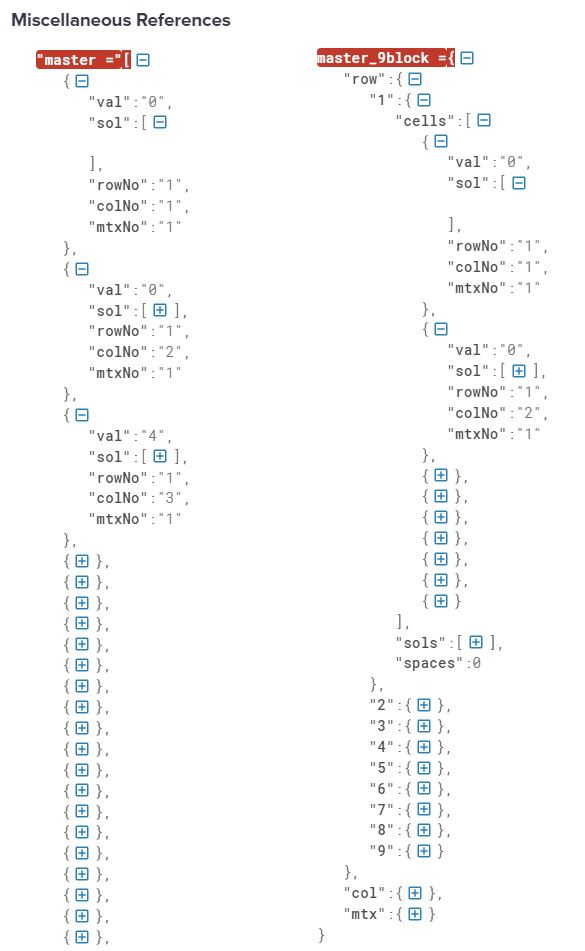
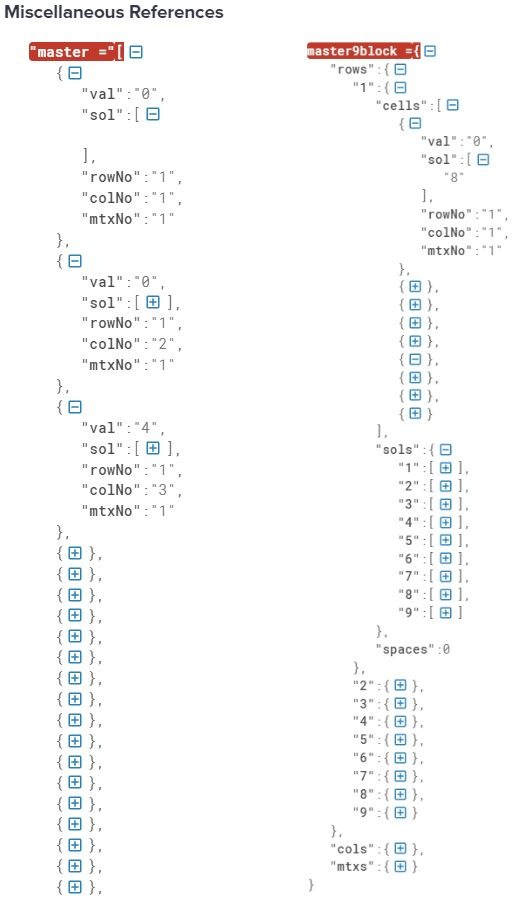
checkpoint before attempting rcmTuple upgrade

diff --git a/s.py b/s.py
@@ -5,26 +5,26 @@
 def print_matrix(inputMatrix):
     for x in range(9):
         firstIndexInRow = 0 + (9 * x)
-        rowOfNumbers = inputMatrix[firstIndexInRow:firstIndexInRow+9]
-        formattedList = [f'{y["val"]:^3}' for y in rowOfNumbers]
-        spacedString = "|".join(formattedList)
-        print(spacedString)
+        rowOf9Numbers = inputMatrix[firstIndexInRow:firstIndexInRow+9]
+        centredNumbers = [f'{y["val"]:^3}' for y in rowOf9Numbers]
+        boxedCentredNumbers = "|".join(centredNumbers)
+        print(boxedCentredNumbers)
         if x < 8:
-            print("-" * len(spacedString))
+            print("-" * len(boxedCentredNumbers))
     print()
         
 def master_index(row,column):
     indexWithinRow = column - 1
-    elemFromRowsAbove = 9 * (row - 1)
-    finalIndex = elemFromRowsAbove + indexWithinRow
+    elemCountFromPreviousRows = 9 * (row - 1)
+    finalIndex = elemCountFromPreviousRows + indexWithinRow
     return finalIndex
 
 def debug_matrix(option):
     print_matrix(master)
     if option:
         for x in range(9):
-            row = x * 9
-            for y in master[row:row+9]:print(y)
+            firstIndexInRow = x * 9
+            for y in master[firstIndexInRow:firstIndexInRow+9]:print(y)
             print()
 
 # Example String
@@ -32,21 +32,25 @@ sampleString = "004300209005009001070060043006002087190007400"\
                 "050083000600000105003508690042910300"
 
 # 9block Mechanism
+rcmTuple = (("rows","rowNo"),(("cols","colNo")),(("mtxs","mtxNo")))
 master9block = {
                  "rows":{str(x):{"cells":[],
                                  "sols":{str(y):[] for y in range (1,10)},
-                                 "spaces":0} for x in range (1,10)}, 
+                                 "spaces":0}
+                         for x in range (1,10)}, 
                  "cols":{str(x):{"cells":[],
                                  "sols":{str(y):[] for y in range (1,10)},
-                                 "spaces":0} for x in range (1,10)},
+                                 "spaces":0}
+                         for x in range (1,10)},
                  "mtxs":{str(x):{"cells":[],
                                  "sols":{str(y):[] for y in range (1,10)},
-                                 "spaces":0} for x in range (1,10)},
+                                 "spaces":0}
+                         for x in range (1,10)},
                  }
 
 # Cell Mechanism
-master = [{"val":"", "sol":[], "rowNo":"", "colNo":"", "mtxNo":""} for x in 
-          range(81)]
+master = [{"val":"", "sol":[], "rowNo":"", "colNo":"", "mtxNo":""}
+          for x in range(81)]
 for idx,cell in enumerate(master):
     
     # set individual cell value
@@ -91,7 +95,6 @@ for idx,cell in enumerate(master):
 
 # Solution-generator Mechanism
 numberList = [str(x) for x in range(1,10)]
-rcmTuple = (("rows","rowNo"),(),())
 for currentCell in master:
     if currentCell["val"] != "0":continue
     possibleSolutions = numberList.copy()
@@ -108,6 +111,15 @@ for currentCell in master:
           f"{currentCell['rowNo']},{currentCell['colNo']} "
           f"of value {currentCell['val']} is {possibleSolutions}") """
     currentCell["sol"] = possibleSolutions
+    
+# Populate 9block Solutions
+# for currentRow in master9block["rows"]:
+#     cellsInCurrentRow = master9block["rows"][currentRow]["cells"]
+#     solsInCurrentRow = master9block["rows"][currentRow]["sols"]
+#     for currentCell in cellsInCurrentRow:
+#         for potentSol in currentCell["sol"]:
+#             if cell in solsInCurrentRow[potentSol]:continue
+#             solsInCurrentRow[potentSol].append(cell)
     
 # Solution Algorithms
 def solution_algorithm_1(cell):
@@ -134,33 +146,38 @@ def solution_algorithm_2():
 # Iteration Mechanism
 # while True:
 # for currentRow in master9block["rows"]:
-#     for currentCell in master9block["rows"][currentRow]["cells"]:
+#     cellsInCurrentRow = master9block["rows"][currentRow]["cells"]
+#     solsInCurrentRow = master9block["rows"][currentRow]["sols"]
+#     for currentCell in cellsInCurrentRow:
 #         for potentSol in currentCell["sol"]:
-#             master9block["rows"][currentRow]["sols"][potentSol].append(cell)
-#         # solution algo 1
-#     # iterate through sols
-#         # solution algo 2
+#             if cell in solsInCurrentRow[potentSol]:continue
+#             solsInCurrentRow[potentSol].append(cell)
+#         solution_algorithm_1(currentCell)
+#     iterate through sols
+#         solution algo 2
 #     pass
 # for eachCol in master9block["cols"]:
 #     pass
 # for eachMtx in master9block["mtxs"]:
 #     pass
 
-# Playground
-# debug_matrix(False)
-# print()
-# while True:                                                     # 9block checker
-#     inp9b = input("What 9block do you want? >")
-#     if inp9b == "done":break
-#     while True:
-#         inpNo = input(f"Which {inp9b} do you want? >")
-#         if inpNo == "back":break
-#         if (int(inpNo)<1) or (int(inpNo)>9):continue
-#         for thing in master9block[inp9b][inpNo]["cells"]:print(thing)
-#         print()
-#         debug_matrix(False)
-#         print()
-print_matrix(master)
+# Playground - 9block printer
+""" debug_matrix(False)
+print()
+while True:
+    inp9b = input("What 9block do you want? >")
+    if inp9b == "done":break
+    while True:
+        inpNo = input(f"Which {inp9b} do you want? >")
+        if inpNo == "back":break
+        if (int(inpNo)<1) or (int(inpNo)>9):continue
+        for thing in master9block[inp9b][inpNo]["cells"]:print(thing)
+        print()
+        debug_matrix(False)
+        print() """
+
+# Playground - 3x3 mtx 1 onestep solver        
+""" print_matrix(master)
 def debug_mtx1():
     for cell in master9block["mtxs"]["1"]["cells"]:
         if cell["val"] != "0":continue
@@ -171,4 +188,4 @@ debug_mtx1()
 for cell in master9block["mtxs"]["1"]["cells"]:
     solution_algorithm_1(cell)
 print_matrix(master)
-debug_mtx1()
+debug_mtx1() """
